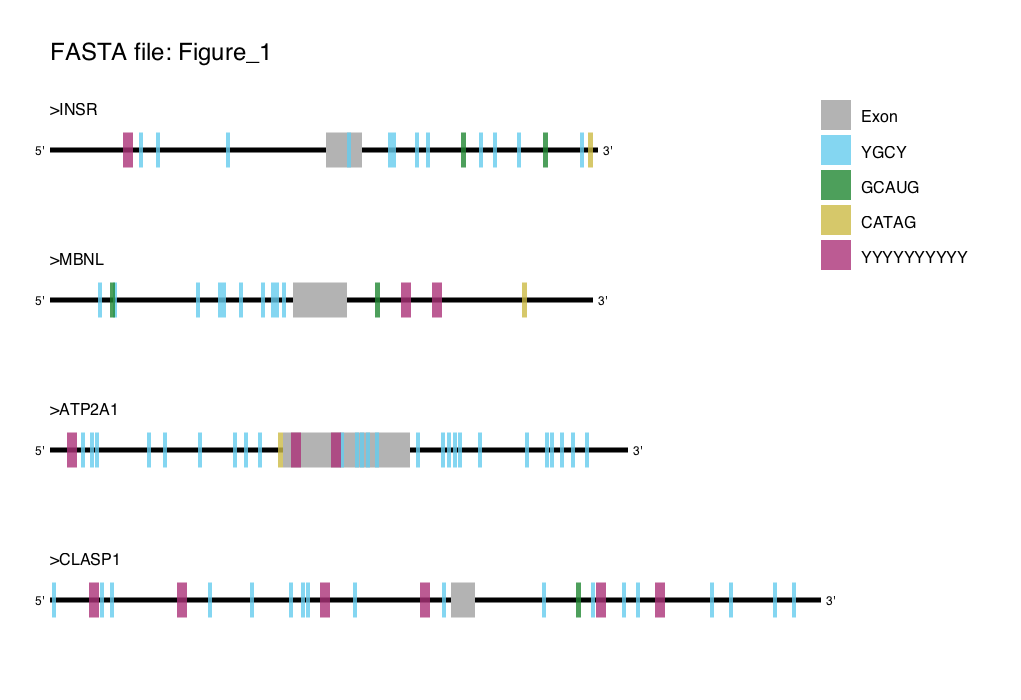
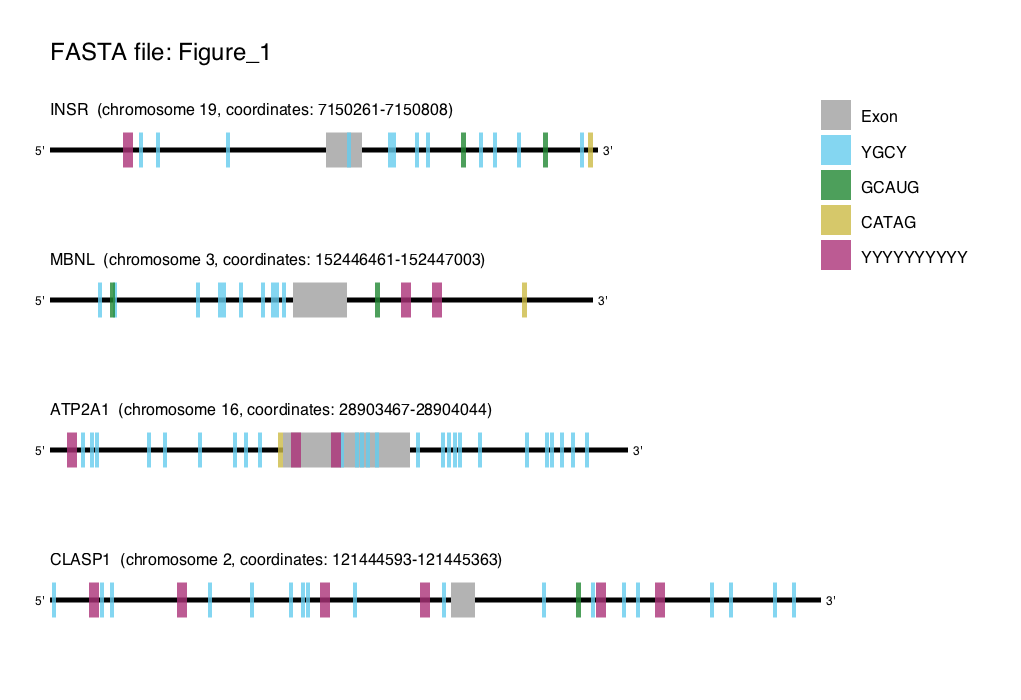
add header information to seq titles

diff --git a/winans_motif_mark.py b/winans_motif_mark.py
@@ -24,7 +24,8 @@ def get_args():
 
 def extract_fasta_name(fasta_file):
     """Extract input filename without extension for figure title and output files."""
-    return os.path.basename(fasta_file).split('.')[0]
+    gene_name = os.path.basename(fasta_file).split('.')[0]
+    return gene_name
 
 
 def degenerate_bases():
@@ -106,6 +107,21 @@ def get_positions(fasta):
         exon_end.append(exon.span()[1])
     return headers, seqs, seq_start, \
         seq_length, exon_start, exon_end
+
+def sequence_name(header):
+    """Extract sequence name from header."""
+    seq_name = header.split(' ')[0].split('>')[1]
+    return seq_name
+
+def chromosome(header):
+    """Extract chromosome number from header."""
+    chrom = header.split(' ')[1].split('chr')[1].split(':')[0]
+    return chrom
+
+def coordinates(header):
+    """Extract coordinates from header."""
+    coords = header.split(' ')[1].split(':')[1]
+    return coords
 
 
 def motif_spans(motif_file, seqs):
@@ -206,7 +222,10 @@ def main():
         ctx.move_to(50, line_y - 35)
         ctx.set_source_rgb(0, 0, 0)
         ctx.set_font_size(16)
-        ctx.show_text(headers[i].split(' ')[0])
+        ctx.show_text(sequence_name(headers[i]))
+        print(headers[i].split(' ')[1].split('chr')[1].split(':')[0])
+        ctx.show_text("  (chromosome %s," % chromosome(headers[i]))
+        ctx.show_text(" coordinates: %s)" % coordinates(headers[i]))
 
         # draw 5' intron
         ctx.set_line_width(5)
